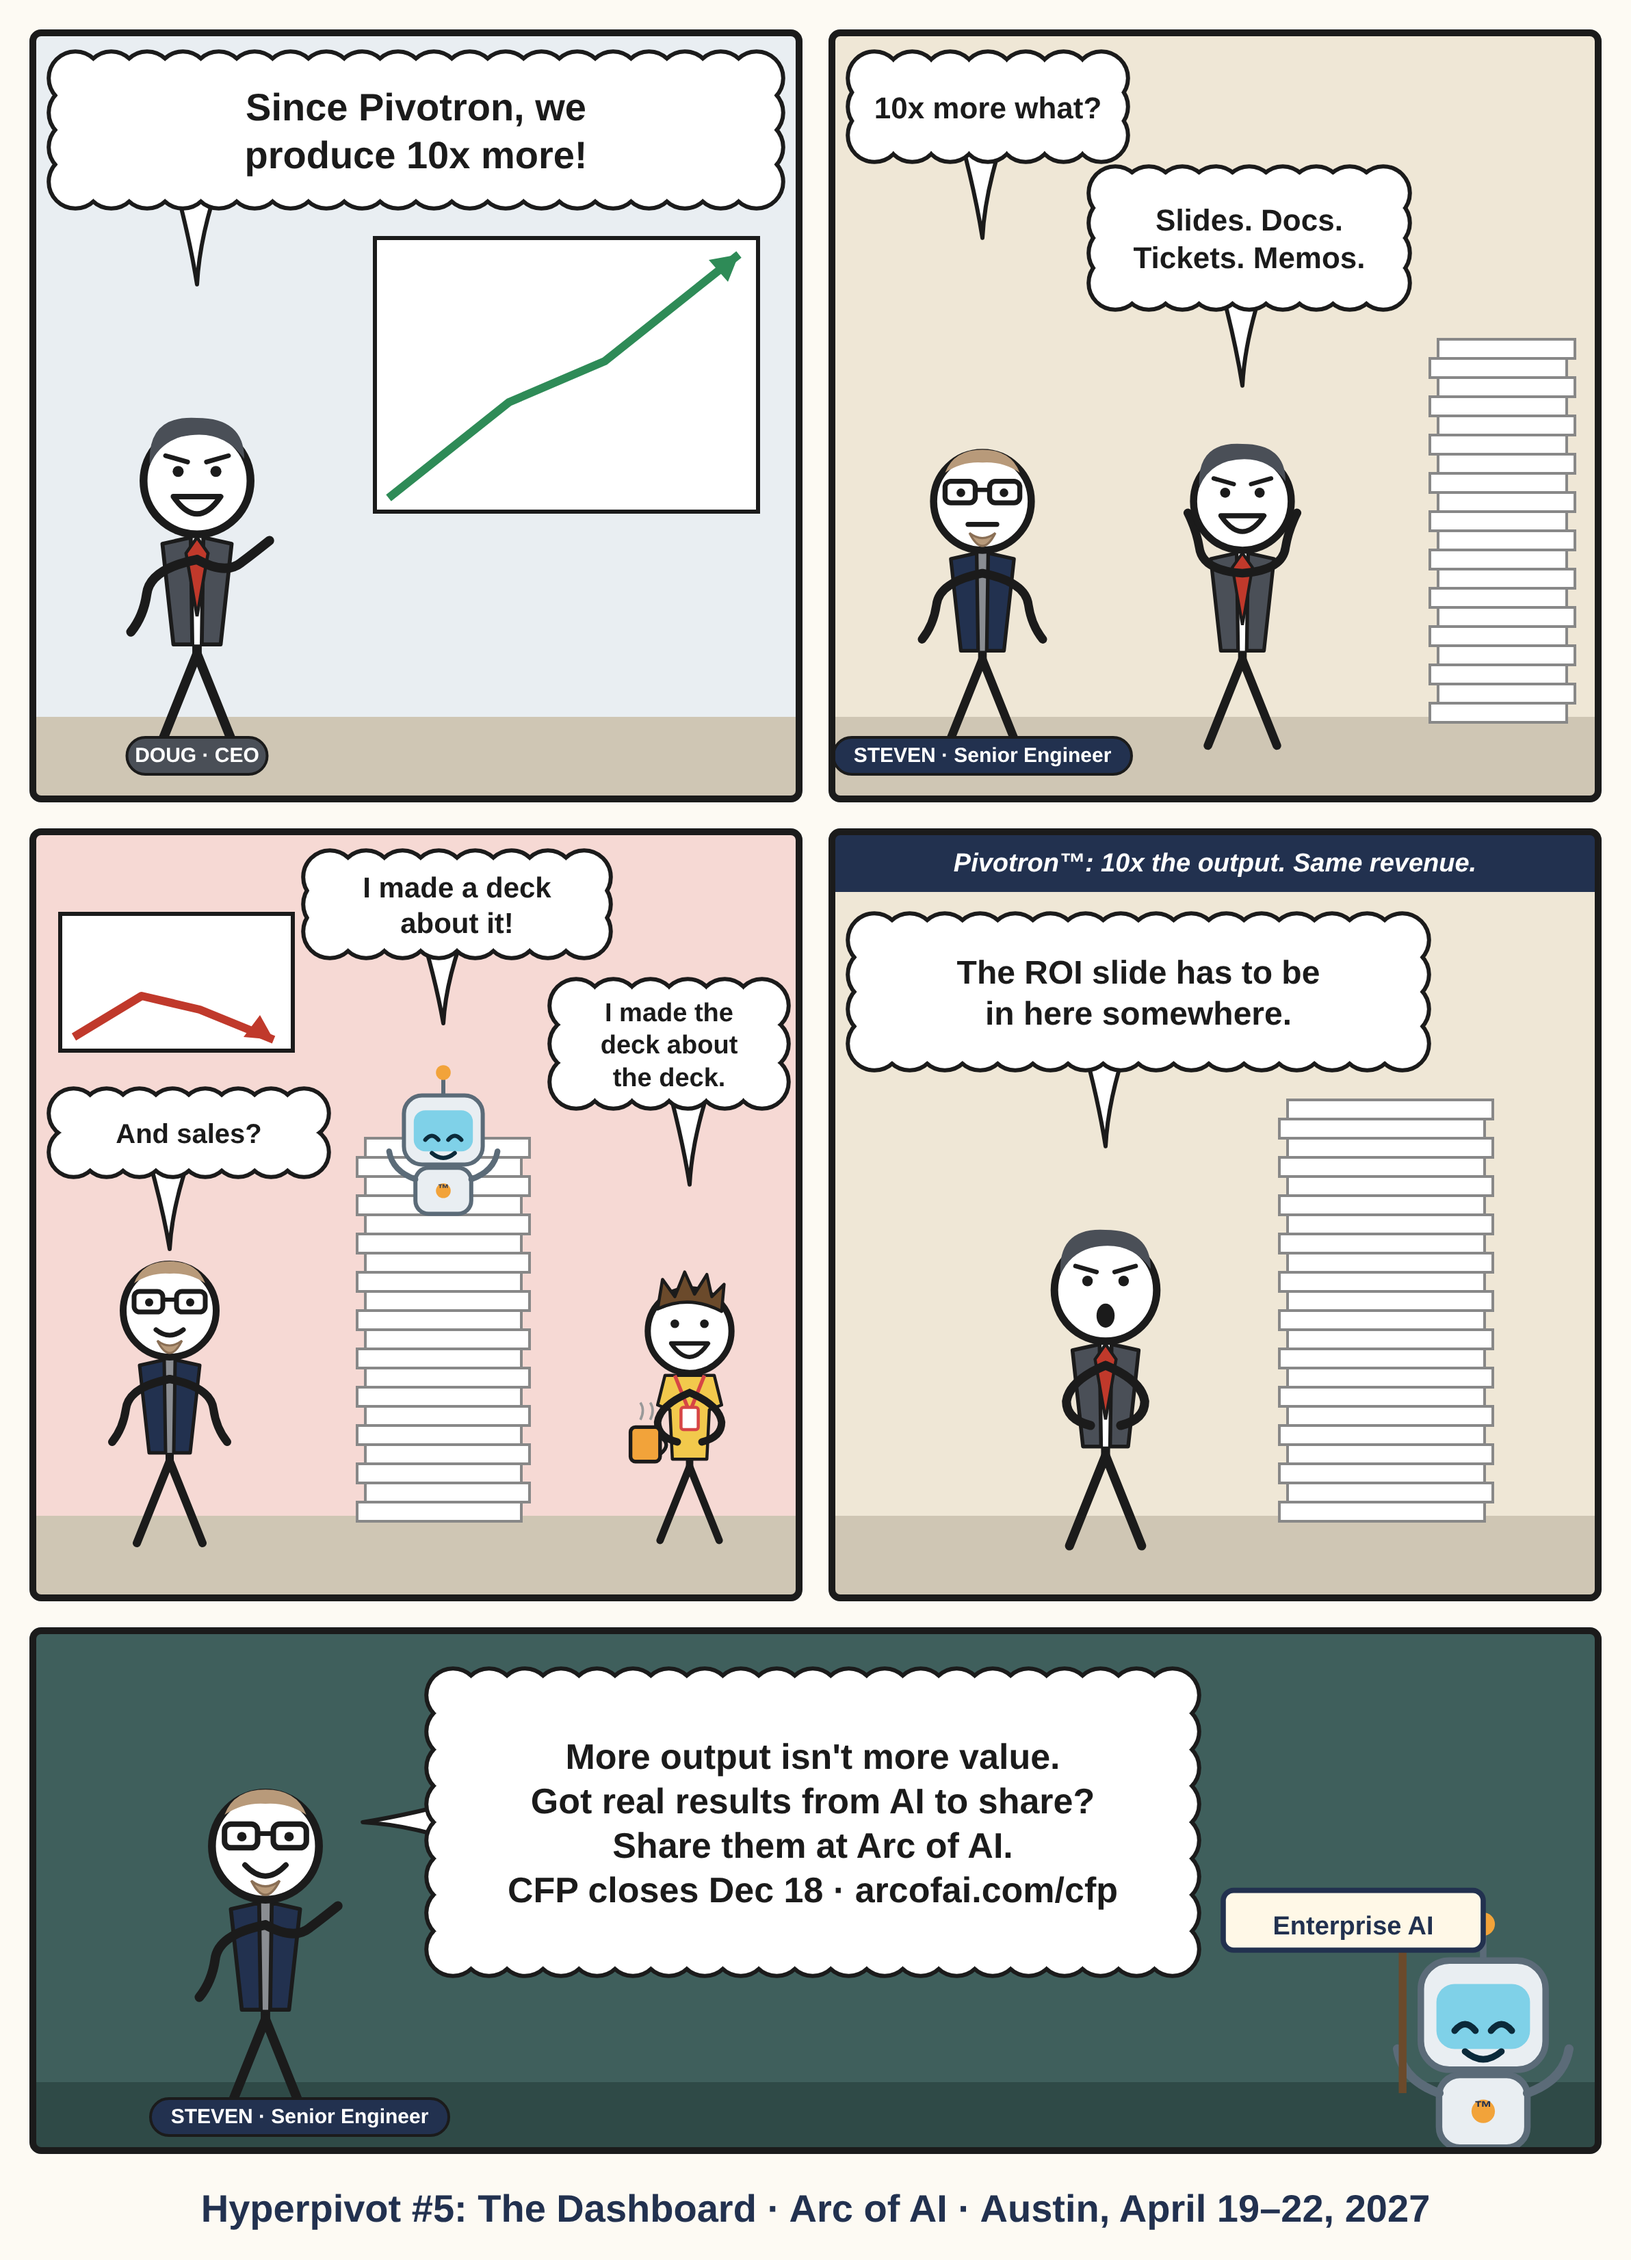
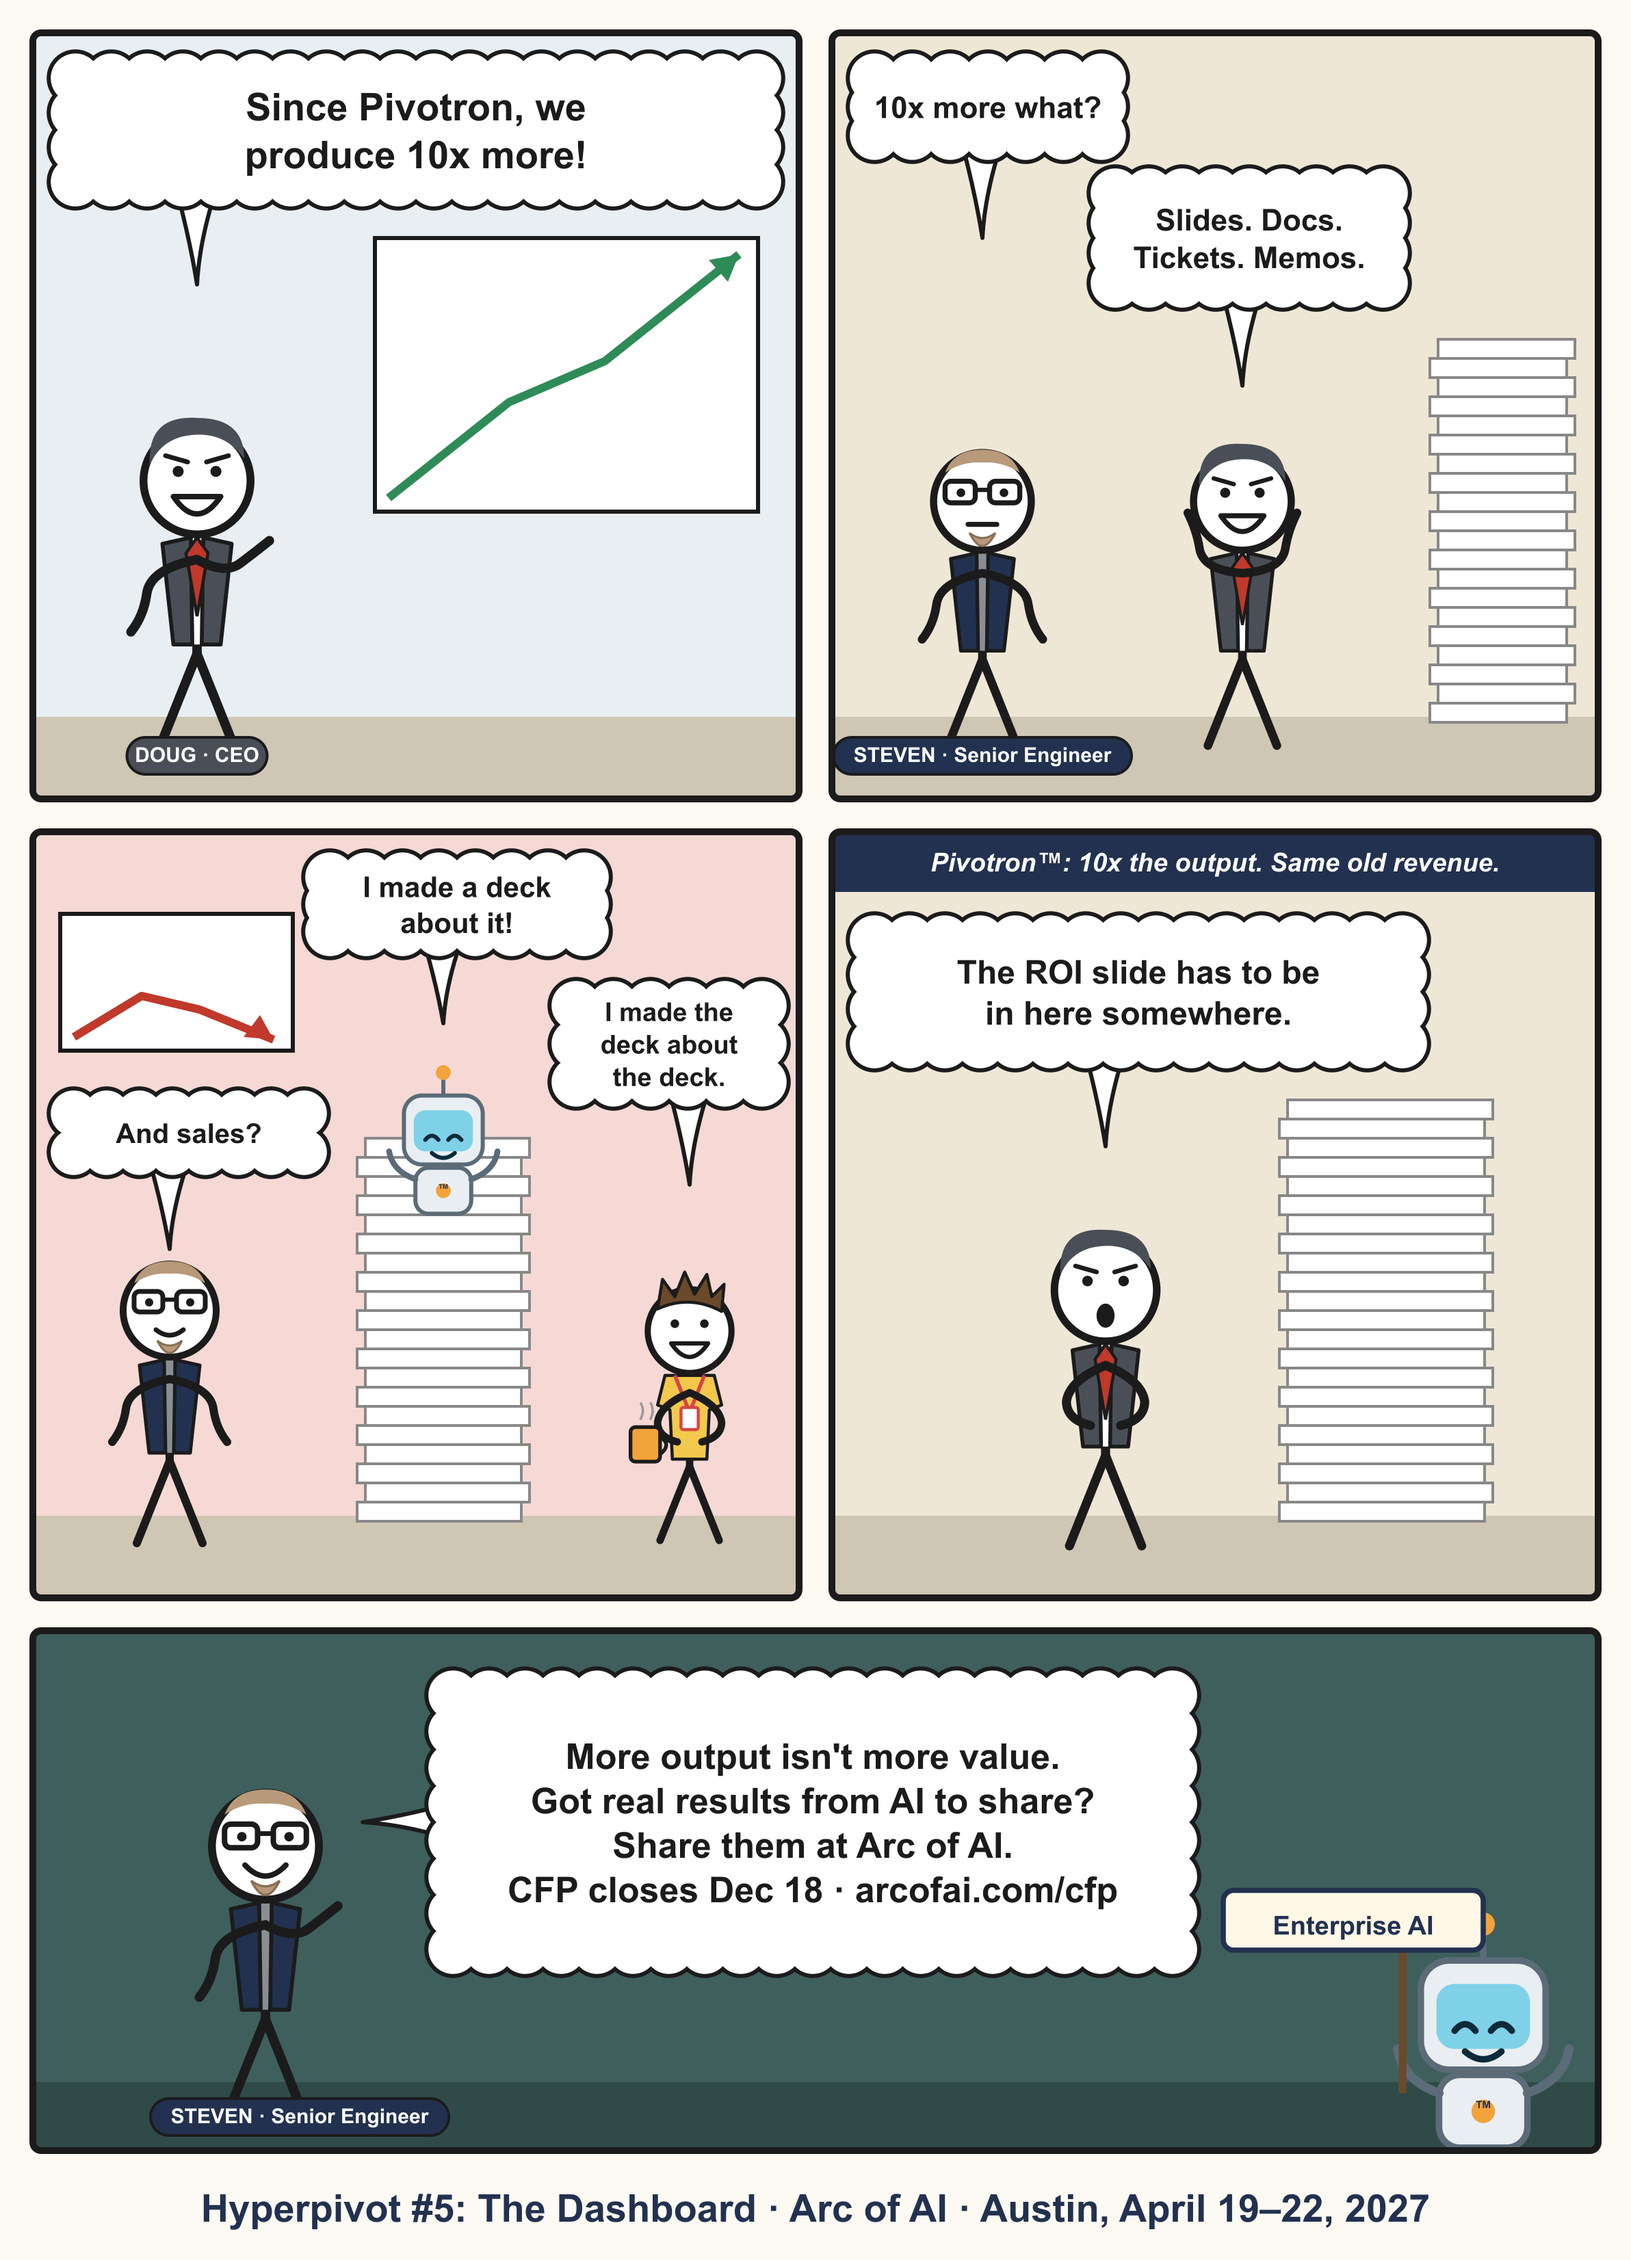
Hyperpivot saga: update strip 5 caption to 'Same old revenue'
Claude-Session: https://claude.ai/code/session_015RWePtc5LABk5kKkVNAMun

diff --git a/arcofai/hyperpivot-saga/index.html b/arcofai/hyperpivot-saga/index.html
@@ -85,7 +85,7 @@ a{color:var(--navy)}
       <li>Reviews its own code. Approves it every time.</li>
       <li>No retry limit. No spending limit.</li>
       <li>Writes its own rules. Approves them too.</li>
-      <li>10x the output. Same revenue.</li>
+      <li>10x the output. Same old revenue.</li>
       <li>Lessons learned. Mostly the hard way.</li>
     </ol>
   </section>
